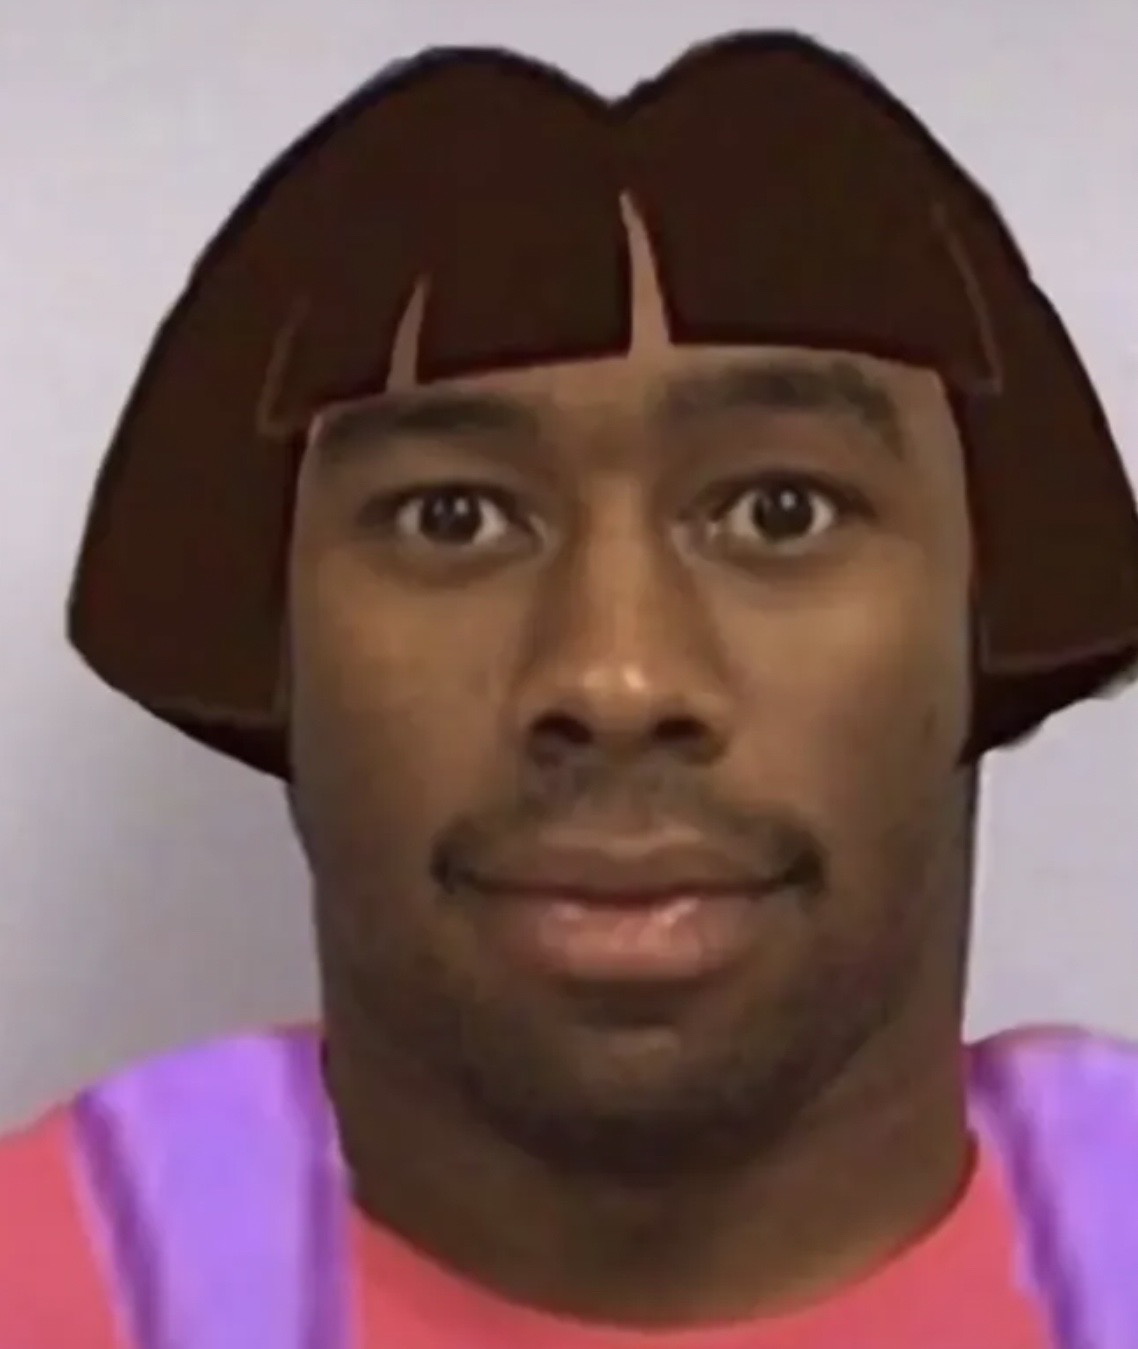
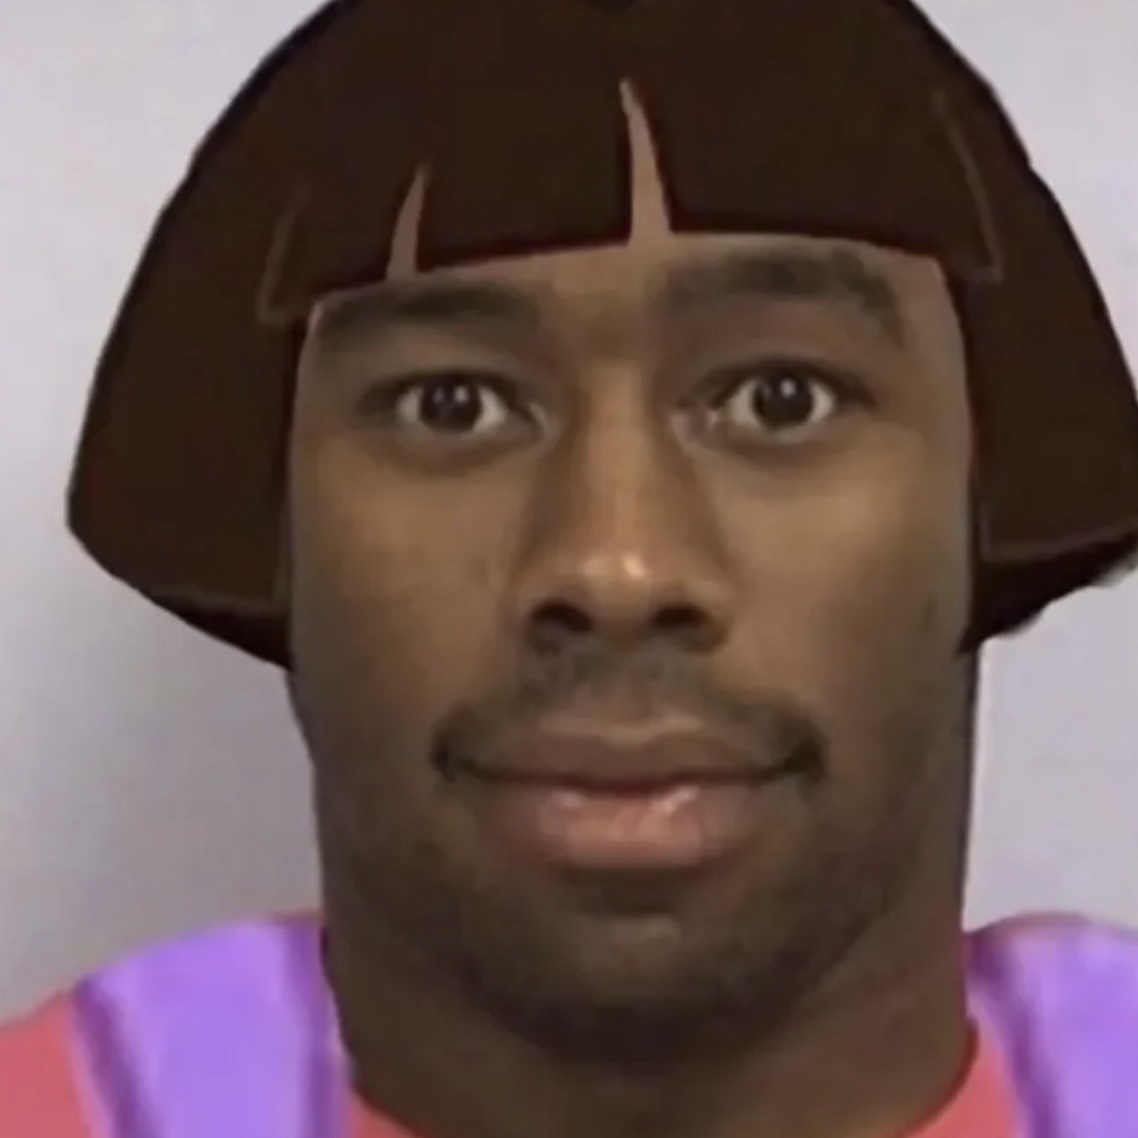
Better GUI

diff --git a/src/main/java/yapper/DialogBox.java b/src/main/java/yapper/DialogBox.java
@@ -18,7 +18,9 @@ import javafx.scene.layout.BackgroundFill;
 import javafx.scene.layout.CornerRadii;
 import javafx.scene.layout.HBox;
 import javafx.scene.paint.Color;
+import javafx.scene.shape.Circle;
 import javafx.scene.text.Font;
+
 
 
 
@@ -41,6 +43,10 @@ public class DialogBox extends HBox {
             fxmlLoader.setController(this);
             fxmlLoader.setRoot(this);
             fxmlLoader.load();
+
+            displayPicture.setClip(new Circle(50, 50, 50));
+            displayPicture.setFitWidth(100);
+            displayPicture.setFitHeight(100);
 
         } catch (IOException e) {
             e.printStackTrace();
